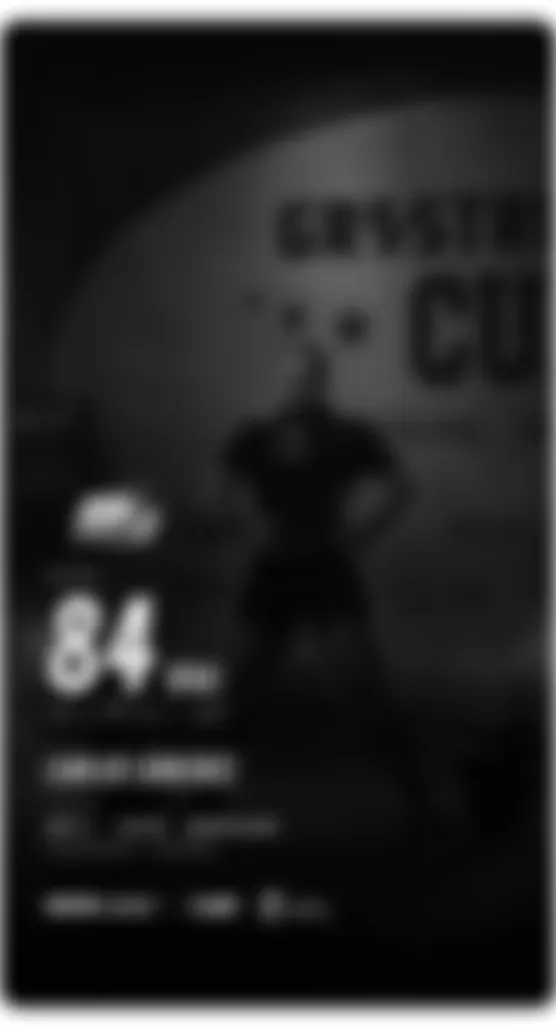
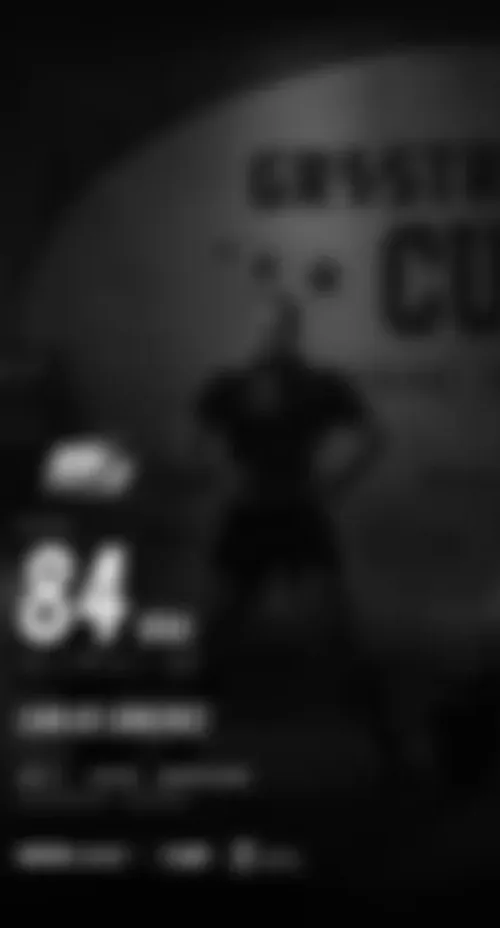
fix(home): story del iPhone sin franja blanca (recorte del asset)

diff --git a/platform/web/projects/public/src/app/home/secciones.ts b/platform/web/projects/public/src/app/home/secciones.ts
@@ -39,7 +39,7 @@ const FOTO = 'border border-white/8';
             <div class="relative flex size-full flex-col overflow-hidden rounded-[38px] bg-black">
               <div class="flex h-[50px] shrink-0 items-center justify-between px-7 text-[13px] font-semibold text-white"><span>9:41</span><span class="h-[9px] w-[19px] rounded-[3px] bg-white"></span></div>
               <span class="absolute top-3 left-1/2 h-6 w-[83px] -translate-x-1/2 rounded-pill bg-black ring-1 ring-white/10"></span>
-              <img src="/img/home/alta-story.webp" alt="" width="278" height="514" class="min-h-0 w-full flex-1 scale-[1.08] object-cover" loading="lazy" decoding="async" />
+              <img src="/img/home/alta-story.webp" alt="" width="278" height="514" class="min-h-0 w-full flex-1 object-cover" loading="lazy" decoding="async" />
               <span class="absolute bottom-2 left-1/2 h-1 w-[95px] -translate-x-1/2 rounded-pill bg-white/80"></span>
             </div>
           </div>
